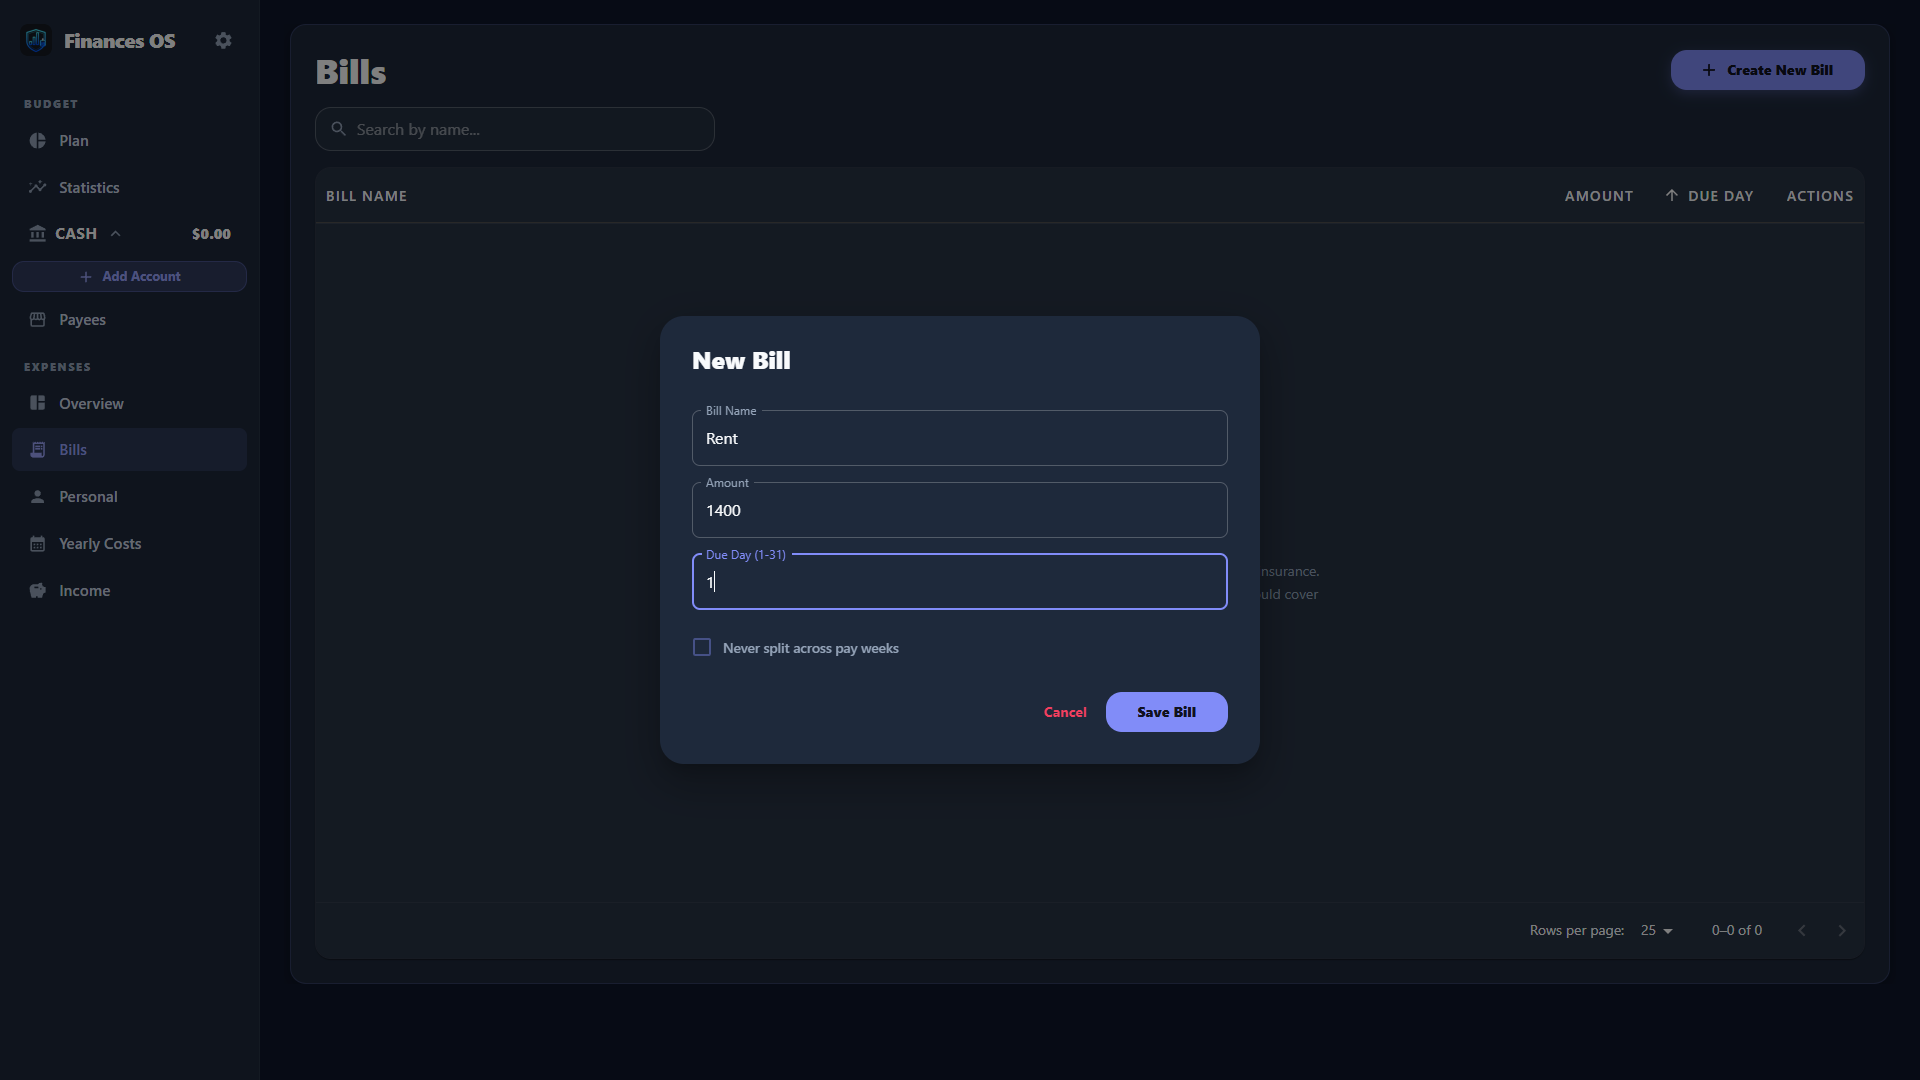
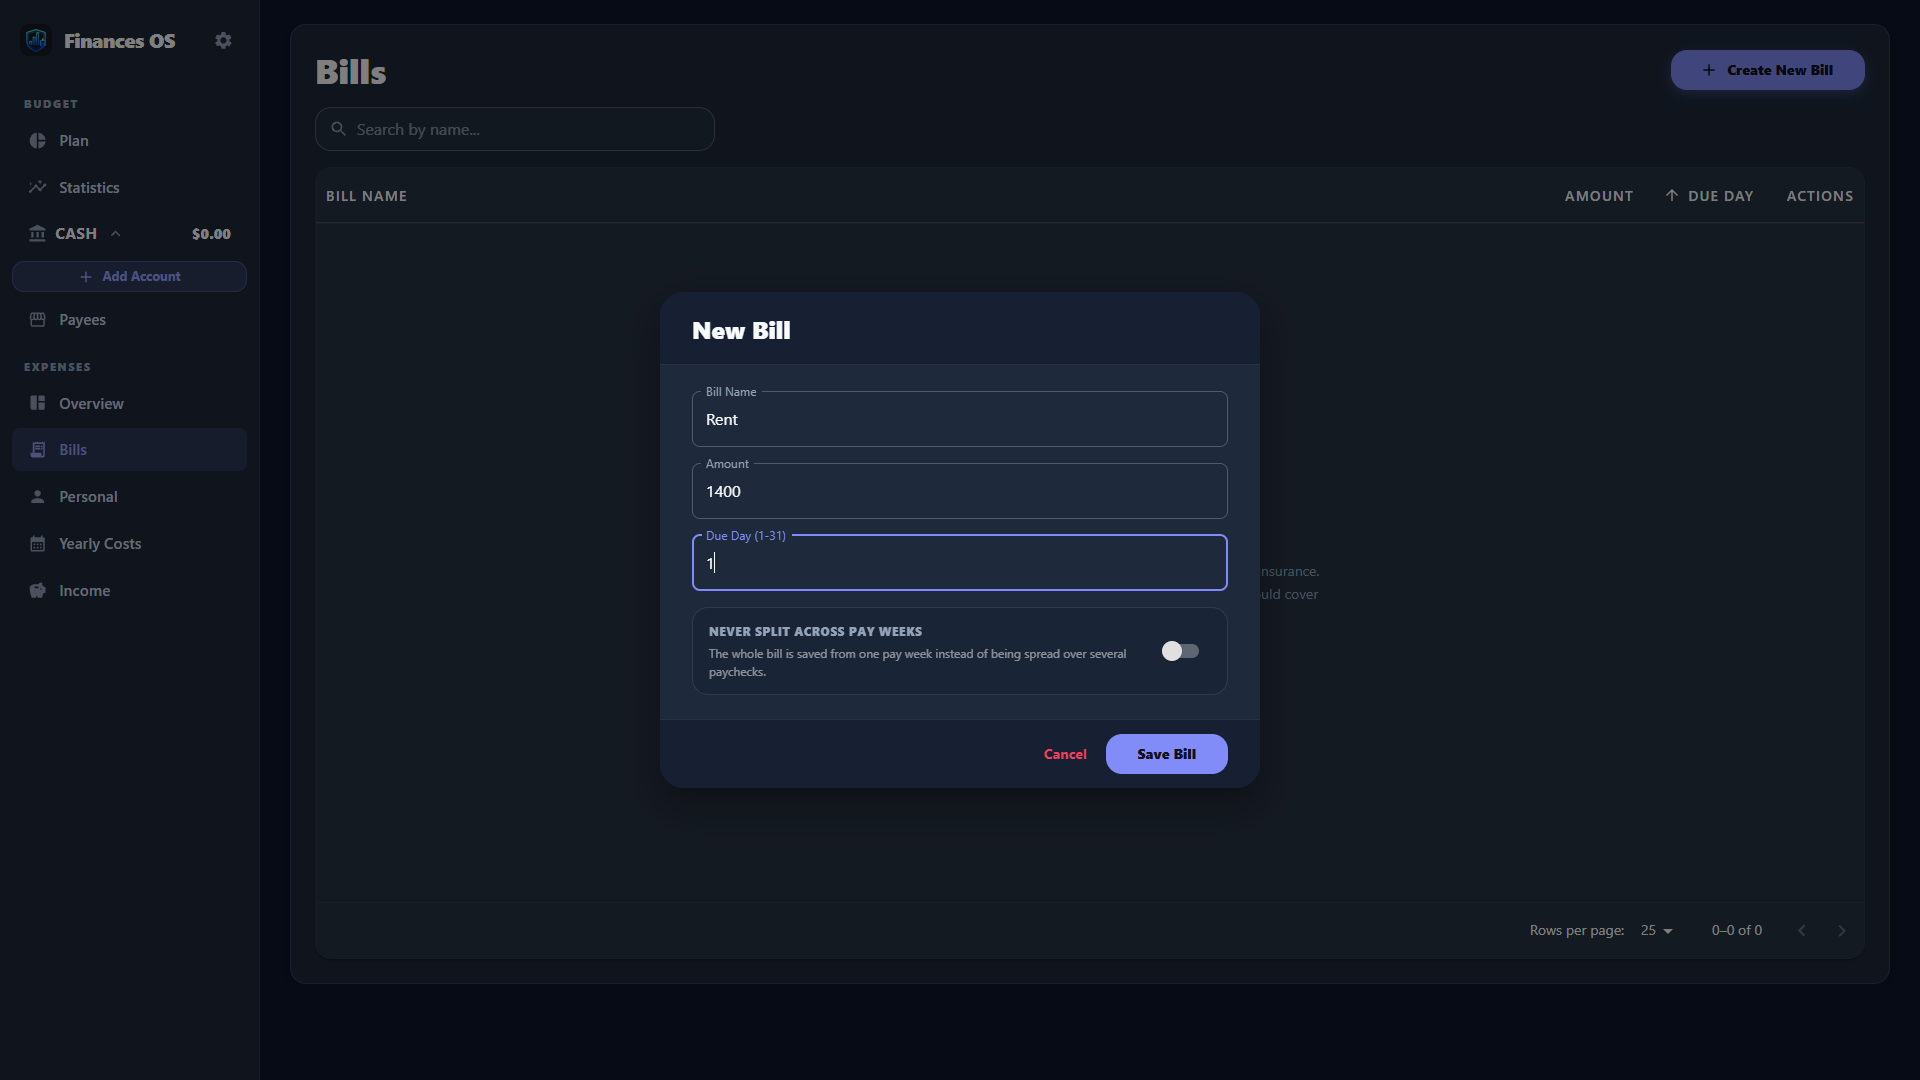
Tour: pictures and text for the 0.8.1 forms and dialogs
The 0.8.1 form cards and dialog bands changed every picture with a dialog
(02, 05, 07, 12, 13, 15, 22, 27, 28, 31) and the two of the Income page
(03, 23). Those 12 are regenerated; the other 23 are the committed files
(only antialiasing differed).

Text that no longer matched the pictures:
- docs/index.html step 2: the pay schedule now comes before the optional
  pay-stub numbers (caption and alt text).
- step 3: "Never split across pay weeks" is a switch, not a tick box.
- step 13: the Temporary amount card spells out what Add will do, and after
  Add the fields give way to one amber card with Remove (one temporary
  amount per bill); alt texts follow.
- README: the "Income Sources" bullet is "Income", like the page's title.

Tour scripts:
- cdp.mjs: settle() no longer waits on Next's hot-update request. In a fresh
  worktree every route is compiled for the first time, that request never
  reports back, and every wait ran its full 20 s (a minute per picture).
  goto() also empties the in-flight set before it navigates.
- tour.mjs: step 13 waits for text only the saved amber card has; comments
  describe the steppers and the card instead of the old layout.

No app code and no version change.

diff --git a/docs/index.html b/docs/index.html
@@ -277,7 +277,7 @@
       <p>If your hours change from week to week, also fill in three optional numbers from a regular pay stub: the hours that paycheck is for, the taxes taken out, and any dues that are the same every paycheck. Alex's stub says 40 hours, $210 in taxes and $15 in dues. They come into play in <a href="#hours">step 11</a>.</p>
       <div class="why"><strong>Why it matters:</strong> your paydays build the pay-week grid. October has five Fridays, so Alex's October has five pay weeks, and every bill gets assigned to the paycheck that should cover it.</div>
       <div class="pair">
-        <figure><button data-full="img/tour/02-income-form.png"><img loading="lazy" src="img/tour/02-income-form.png" alt="Add Income form: Paycheck, 1150 take-home, 40 regular hours, 210 taxes, 15 dues, Weekly, Friday." width="1920" height="1080"></button><figcaption>Name, take-home amount, the optional pay-stub numbers, cycle and payday.</figcaption></figure>
+        <figure><button data-full="img/tour/02-income-form.png"><img loading="lazy" src="img/tour/02-income-form.png" alt="Add Income form: Paycheck, 1150 take-home, a Pay schedule card set to Weekly and Friday, and a card with 40 regular hours, 210 taxes and 15 dues." width="1920" height="1080"></button><figcaption>Name, take-home amount, the pay schedule, then the optional pay-stub numbers.</figcaption></figure>
         <figure><button data-full="img/tour/03-income-list.png"><img loading="lazy" src="img/tour/03-income-list.png" alt="Income list with one primary paycheck and its upcoming paychecks underneath." width="1920" height="1080"></button><figcaption>The first income becomes the Primary schedule, with its upcoming paychecks listed underneath.</figcaption></figure>
       </div>
     </section>
@@ -286,7 +286,7 @@
     <section class="step" id="bills" style="--c: var(--rose)">
       <div class="step-head"><div class="num">03</div><div><h2>Add your bills</h2><p class="where">Bills → Create New Bill</p></div></div>
       <p>Add each monthly bill with its amount and the day it's due. Alex has eight, from $1,400 rent on the 1st down to a $16 streaming plan on the 27th.</p>
-      <div class="why"><strong>Why it matters:</strong> due dates are what let the app work out which paycheck pays for what. Tick “Never split” for a bill that must be paid in one go from a single paycheck.</div>
+      <div class="why"><strong>Why it matters:</strong> due dates are what let the app work out which paycheck pays for what. Switch on “Never split across pay weeks” for a bill that must be paid in one go from a single paycheck.</div>
       <div class="pair">
         <figure><button data-full="img/tour/05-bill-form.png"><img loading="lazy" src="img/tour/05-bill-form.png" alt="New Bill form: Rent, 1400, due on the 1st." width="1920" height="1080"></button><figcaption>Rent: $1,400, due on the 1st.</figcaption></figure>
         <figure><button data-full="img/tour/06-bills-list.png"><img loading="lazy" src="img/tour/06-bills-list.png" alt="Bills list with eight bills sorted by due day." width="1920" height="1080"></button><figcaption>All eight bills, sorted by due day.</figcaption></figure>
@@ -397,12 +397,12 @@
     <section class="step" id="lowerprice" style="--c: var(--rose)">
       <div class="step-head"><div class="num">13</div><div><h2>A lower price for a while</h2><p class="where">Bills → edit a bill → Temporary amount</p></div></div>
       <p>Alex's internet provider offers a deal: <strong>$40</strong> a month instead of $65, for three months. Alex could change the bill's amount, but then somebody has to remember to change it back in February, and until then every later month of the plan would be wrong.</p>
-      <p>So Alex opens the bill on the Bills page and scrolls to <em>Temporary amount</em> at the bottom of the form: an amount, the month it starts in and how long it lasts. The form already suggests November (October's payment is behind) and three months, so Alex types 40 and presses <strong>Add</strong>. It is saved right away and listed underneath: $40.00, Nov 2026 – Jan 2027. The same line appears under the bill's amount in the list.</p>
+      <p>So Alex opens the bill on the Bills page and goes to the <em>Temporary amount</em> card at the bottom of the form: an amount, the month it starts in and how long it lasts. The form already suggests November (October's payment is behind) and three months, so Alex only types 40. A line under the fields spells out what will happen: $40.00 for Nov 2026 – Jan 2027, then back to $65.00 in Feb 2027. Alex presses <strong>Add</strong>. It is saved right away, and the fields give way to an amber card with the amount, its months and a <strong>Remove</strong> button (a bill has one temporary amount at a time). The same amount and months appear under the bill's amount in the list.</p>
       <p>The plan follows by itself. In November the Internet card shows $40.00 with &ldquo;Usually $65.00&rdquo; under its due date, the Bills total at the top is $2,079 instead of $2,104, and the first three pay weeks each keep $240.75 instead of about $234. In February the bill is back at $65 without anyone touching it. A month in which a bill costs nothing works the same way: enter 0.</p>
       <div class="why"><strong>Why it matters:</strong> an introductory price, a payment plan, a few months at a reduced rate: bills change for a while and then change back. The plan knows both dates, so it is right today and still right when the deal ends. (The &ldquo;not charged&rdquo; mark in step 12 is for one payment whose money was already set aside. A temporary amount is for payments still ahead, and the whole plan uses it.)</div>
       <div class="pair">
-        <figure><button data-full="img/tour/27-bill-temporary-form.png"><img loading="lazy" src="img/tour/27-bill-temporary-form.png" alt="Edit Bill form for Internet, 65 dollars due on the 18th, with the Temporary amount section filled in: 40, starting Nov 2026, for 3 months." width="1920" height="1080"></button><figcaption>$40, starting November, for three months.</figcaption></figure>
-        <figure><button data-full="img/tour/28-bill-temporary-added.png"><img loading="lazy" src="img/tour/28-bill-temporary-added.png" alt="The same form after Add: an amber line reads 40 dollars, Nov 2026 to Jan 2027, 3 months, and the Bills list behind it shows the same under Internet's amount." width="1920" height="1080"></button><figcaption>Added: $40.00 from Nov 2026 to Jan 2027, also shown in the list behind.</figcaption></figure>
+        <figure><button data-full="img/tour/27-bill-temporary-form.png"><img loading="lazy" src="img/tour/27-bill-temporary-form.png" alt="Edit Bill form for Internet, 65 dollars due on the 18th, with the Temporary amount card filled in: 40, starting Nov 2026, for 3 months, and a line saying 40 dollars for Nov 2026 to Jan 2027, then back to 65 dollars in Feb 2027, beside the Add button." width="1920" height="1080"></button><figcaption>$40, starting November, for three months.</figcaption></figure>
+        <figure><button data-full="img/tour/28-bill-temporary-added.png"><img loading="lazy" src="img/tour/28-bill-temporary-added.png" alt="The same form after Add: in place of the fields, an amber card reads 40 dollars, Nov 2026 to Jan 2027, 3 months, back to 65 dollars in Feb 2027, with a Remove button; the Bills list behind it shows 40 dollars, Nov 2026 to Jan 2027 under Internet's amount." width="1920" height="1080"></button><figcaption>Added: $40.00 from Nov 2026 to Jan 2027, also shown in the list behind.</figcaption></figure>
       </div>
       <figure><button data-full="img/tour/29-overview-temporary-amount.png"><img loading="lazy" src="img/tour/29-overview-temporary-amount.png" alt="November Overview: bills at 2,079 dollars a month, and in Pay Week 2 the Internet card shows 40 dollars with Usually 65 dollars under Due 18th." width="1920" height="1080"></button><figcaption>November: Internet costs $40.00 (&ldquo;Usually $65.00&rdquo;) and bills total $2,079.</figcaption></figure>
     </section>

diff --git a/CLAUDE.md b/CLAUDE.md
@@ -63,11 +63,12 @@ node scripts/demo/tour.mjs                 # fills the app with FAKE data step b
 - **The tour never clicks Optimize (Nov 10 2026, regenerated for 0.6.0).** Optimize is automatic, so rows the script posts to the API are planned by the runner's start-up check on the next page load and UI saves by the write trigger. `waitForPlan()` polls the API until `AppSettings.optimizedInputsSig` equals a replica of `computeInputSignatures` (plain .mjs cannot import `optimize-run.ts`; if the two drift the tour times out loudly — update the replica) and the horizon's last month has rows; `setStoryClock` keeps the script's idea of "today" beside the page's frozen clock. The old "before optimizing" picture is gone: that state no longer exists. **Close any other browser tab on the demo UI before a run** — its own runner would re-plan the demo database on the real clock.
 - **Short-week step (step 11 of 16, 35 pictures).** `PAY_STUB` (40 hours, $210 taxes, $15 dues — made up) is typed into the income form in step 2; on Oct 30 Alex sets 32 hours on the Nov 13 paycheck ("Worked Nov 6 – Nov 12") → $917, with pictures of the dialog, the Income page and November's Overview. The sandbox step follows it, so its November picture carries the short week too; the gym's next payment is Dec 5, so the visible change there is the Bills total, which the page quotes ($2,079 → $2,044 since the temporary-amount step runs before it; $2,104 → $2,069 until then).
 - **Free-month step (step 12, Nov 12 2026).** `FREE_MONTH`: the gym waives Alex's Nov 5 payment, which the October view saves for (it is the forward-extension firing, so the gym's row lists two payments: Oct 5, paid, and Nov 5). The script moves the $35 to Fun Money through the API (two `BudgetMonth` patches, what Move money does), which puts the ⚠ beside the gym; then it clicks the row's MoneyOff button for the first picture (the menu) and ticks "Due Nov 5" for the second (no warning, teal button, the toast). It sits after the short week and before the sandbox on purpose: a `BillNoCharge` row and the moved $35 only show on the Plan page, so no later picture or quoted number changes.
-- **Temporary-amount step (step 13, Nov 25 2026).** `TEMPORARY_AMOUNT`: Alex's internet provider gives three months at $40 instead of $65. On the Bills page the script clicks the pencil on the Internet row and types 40 into the Edit Bill dialog's "Temporary amount" field — through `typeInto('input[aria-label="Temporary amount"]')`, because `page.fill("Amount")` would find the bill's own Amount field first. "Starting" (Nov 2026: October's payment on the 18th is behind on the Oct 30 clock) and "For" (3 months) are the form's defaults. Three pictures: the filled form, the form after Add (the amber run, and the same line under the bill's amount in the list behind the dialog), and November's Overview scrolled 140 px so the Bills tile ($2,079) and the Internet card ("Usually $65.00") are both in it. `waitForPlan()` follows Add. It sits before the sandbox, so the sandbox's November picture and its quoted Bills total moved with it.
+- **Temporary-amount step (step 13, Nov 25 2026).** `TEMPORARY_AMOUNT`: Alex's internet provider gives three months at $40 instead of $65. On the Bills page the script clicks the pencil on the Internet row and types 40 into the Edit Bill dialog's "Temporary amount" field — through `typeInto('input[aria-label="Temporary amount"]')`, because `page.fill("Amount")` would find the bill's own Amount field first. "Starting" (Nov 2026: October's payment on the 18th is behind on the Oct 30 clock) and "For" (3 months) are the steppers' defaults. Three pictures: the filled card (its strip reads "$40.00 for Nov 2026 – Jan 2027, then back to $65.00 in Feb 2027."), the dialog after Add (since 0.8.1 the fields are replaced by one amber card with Remove; the amount and months also show under the bill's amount in the list behind the dialog — the script waits for the card's own "Back to $65.00 in Feb 2027", text the strip does not have), and November's Overview scrolled 140 px so the Bills tile ($2,079) and the Internet card ("Usually $65.00") are both in it. `waitForPlan()` follows Add. It sits before the sandbox, so the sandbox's November picture and its quoted Bills total moved with it.
 - **Run the tour on port 5859, never on 5858 (Nov 25 2026).** `demo-api-5859` + `demo-ui-5859` from `.claude/launch.json`, then `DEMO_API_PORT=5859 node scripts/demo/tour.mjs`. 5858 is the INSTALLED app's port, and the tour posts most of its made-up rows straight to the API with `fetch`: on Nov 25 2026 a `deploy:prod` launched the installed app while a tour was running on 5858. First the demo server held the port, so the app came up without its own API; then the demo server was stopped to free the port, the app took it, and the tour — still running — posted 7 fake bills, 4 personals and 4 yearly costs into the real database (removed by id the same afternoon). The app refuses the tour's BROWSER (origin `localhost:8888` → 403) but not a plain `fetch` without an Origin header. `tour.mjs → assertDemoApi()` now asks `GET /api/meta` before every write and stops unless the database is `prisma/demo/demo.db`; keep that guard, and keep using 5859 anyway.
 - **In a git worktree, start the two demo servers from the worktree itself** (`npx tsx scripts/demo/serve.ts --port 5859`, and `next dev -p 8888 renderer` with `NEXT_PUBLIC_API_URL=http://127.0.0.1:5859/api`): the launch.json entries run in the main checkout, so their API would serve the main checkout's `prisma/demo/demo.db` while the tour's `create-db.mjs` resets the worktree's.
 - Delete `docs/img/tour/*.png` first when the picture list changes — the numbers are sequential, and `docs/index.html` + `README.md` reference the files by number. A re-run re-renders EVERY picture with slightly different antialiasing (all 32 differed from the committed ones on Nov 25 2026, most by nothing a person can see), so afterwards keep the committed file wherever the content did not change (`git checkout HEAD -- <file>`, or the old bytes under the new number for a picture that only moved) and commit only the pictures that really changed.
-- `cdp.mjs → settle()` counts only requests to localhost / 127.0.0.1. The page also pings Refine's telemetry host, and a request that hangs keeps every wait at its 20 s cap. That is what one run on Nov 25 2026 looked like (about a minute per picture, and the 2-second "not charged" toast was gone before the script looked); the telemetry ping was the only non-local request seen in flight, which makes it the likely cause, not a proven one — the next run, with this rule, took 11 minutes.
+- `cdp.mjs → settle()` counts only requests to localhost / 127.0.0.1. The page also pings Refine's telemetry host, and a request that hangs keeps every wait at its 20 s cap. That is what one run on Nov 25 2026 looked like (about a minute per picture, and the 2-second "not charged" toast was gone before the script looked); the telemetry ping was the only non-local request seen in flight, which makes it the likely cause, not a proven one — the next run, with this rule, took 11 minutes. **The same symptom came back that evening in a fresh worktree, with a proven cause:** the first time `next dev` compiles a route the page requests `/_next/static/webpack/webpack.<hash>.hot-update.js`, and Chrome never reports that request as finished or failed (seen with a second, read-only DevTools client listing the open requests), so it stayed in the in-flight set for the rest of the run. `isLongLived` now ignores `hot-update` requests and `goto()` empties the set before it navigates; the run after that took 11 minutes again. A run that crawls at a minute per picture has a request `settle()` is waiting on: stop it and find the request, it will not get to the end (the "not charged" toast lasts 2 seconds).
+- **0.8.1 pictures (Nov 25 2026).** The form cards and dialog bands changed 12 of the 35 pictures: every picture with a dialog (02, 05, 07, 12, 13, 15, 22, 27, 28, 31) and the two of the Income page (03, 23). The other 23 are the committed files (at most ~850 pixels differed, the logo's antialiasing first of all). `18-plan-funded` came out with the green "Assigned $780.67 across 8 items" toast still on screen in that run and without it in the one before; that is timing, not content, so the committed picture stayed.
 - Re-run `tour.mjs` after UI changes, and update the numbers quoted in `docs/index.html` if they move.
 
 ## Sandbox mode (Oct 2026)

diff --git a/README.md b/README.md
@@ -88,7 +88,7 @@ Try changes without risking your real data. **Try a sandbox** (Overview toolbar)
 
 ### ⚙ Income & Auto-Balance Settings
 
-- **Income Sources:** Define one or more income sources, each with its own name, amount, payment cycle (Weekly / Bi-Weekly), pay day (Mon–Fri), and biweekly offset (1st & 3rd vs. 2nd & 4th weeks). The **Primary** income drives the pay-period windows used throughout the Plan and Overview.
+- **Income:** Define one or more income sources on the **Income** page, each with its own name, amount, payment cycle (Weekly / Bi-Weekly), pay day (Mon–Fri), and biweekly offset (1st & 3rd vs. 2nd & 4th weeks). The **Primary** income drives the pay-period windows used throughout the Plan and Overview.
 - **Weekly Surplus Target** — configured inline via the Overview's Surplus Target pill (`AppSettings.wifeWeeklyTargetCents` — DB column name kept for backward compat, default $300). Changing it triggers an auto-balance re-run for the current month.
 
 ## 🧪 Tests
